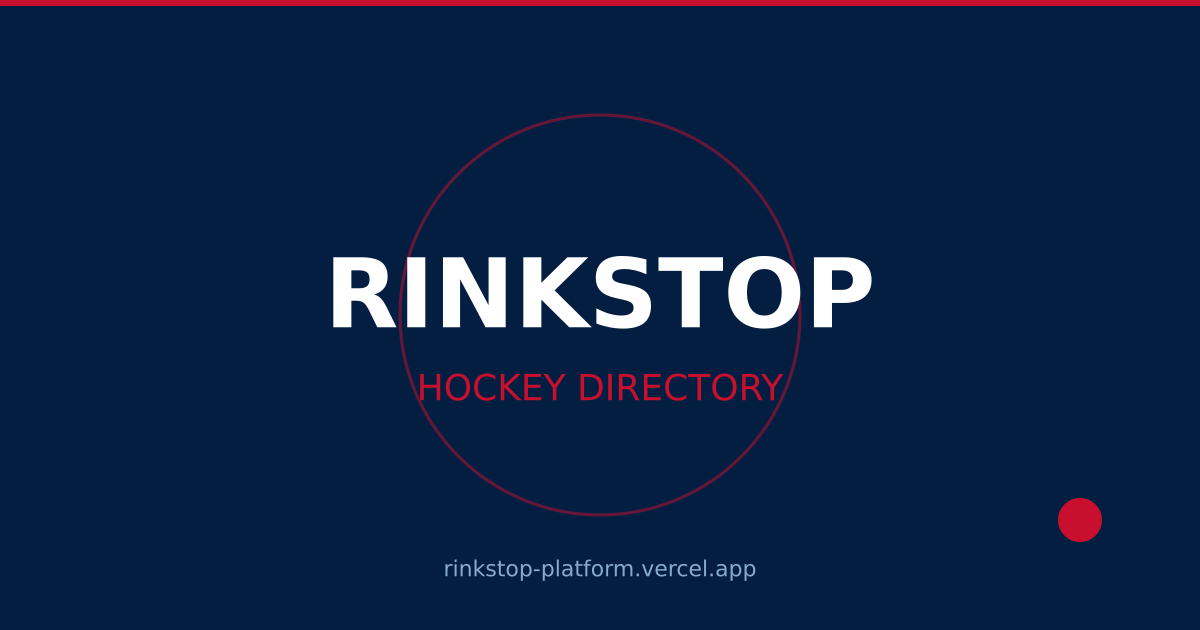
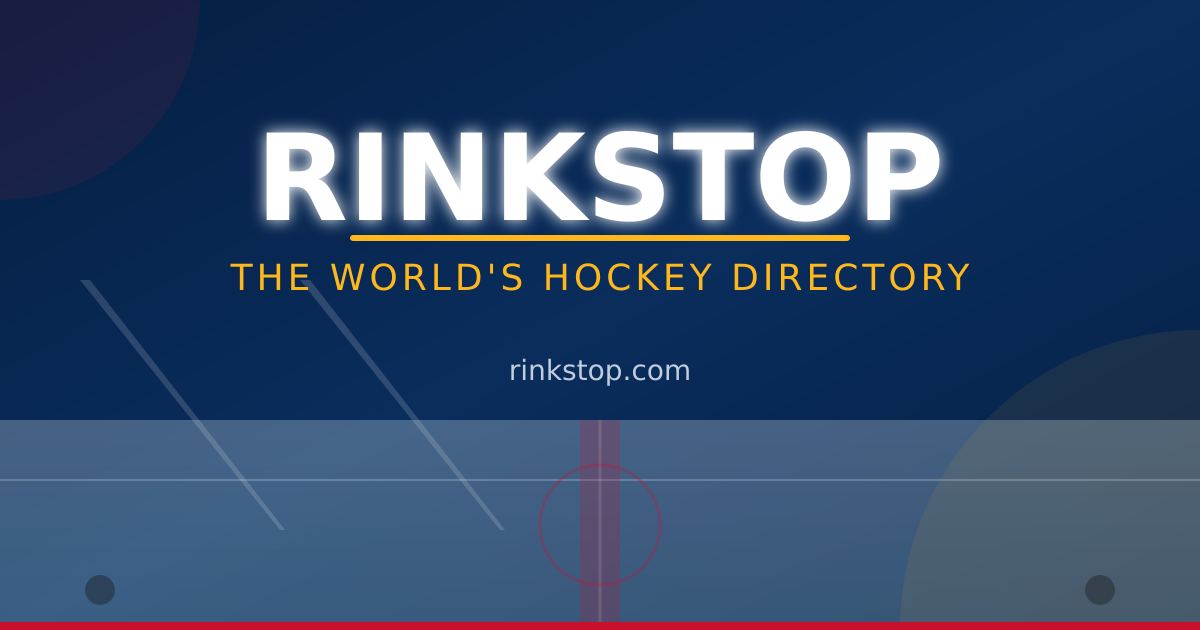
Update OG image with new branded RinkStop design
- New 1200x630 OG image with navy/red/gold branding
- Ice surface texture with hockey rink lines
- Hockey stick decorative elements
- Updated highlights and sitemap improvements

diff --git a/src/app/sitemap.ts b/src/app/sitemap.ts
@@ -4,6 +4,32 @@ import { supabaseAdmin } from '@/lib/supabase';
 const baseUrl = 'https://rinkstop.com';
 
 export default async function sitemap(): Promise<MetadataRoute.Sitemap> {
+  // All 198 countries with their URL slugs
+  const countries = [
+    'united-states', 'canada', 'mexico', 'antigua-and-barbuda', 'bahamas', 'barbados', 'belize', 'costa-rica', 'cuba', 'dominica',
+    'dominican-republic', 'el-salvador', 'grenada', 'guatemala', 'haiti', 'honduras', 'jamaica', 'nicaragua', 'panama',
+    'saint-kitts-and-nevis', 'saint-lucia', 'saint-vincent-and-the-grenadines', 'trinidad-and-tobago',
+    'argentina', 'bolivia', 'brazil', 'chile', 'colombia', 'ecuador', 'guyana', 'paraguay', 'peru', 'suriname', 'uruguay', 'venezuela',
+    'albania', 'andorra', 'austria', 'belarus', 'belgium', 'bosnia-and-herzegovina', 'bulgaria', 'croatia', 'cyprus', 'czech-republic',
+    'denmark', 'estonia', 'finland', 'france', 'georgia', 'germany', 'greece', 'hungary', 'iceland', 'ireland', 'italy', 'kosovo',
+    'latvia', 'liechtenstein', 'lithuania', 'luxembourg', 'malta', 'moldova', 'monaco', 'montenegro', 'netherlands', 'north-macedonia',
+    'norway', 'poland', 'portugal', 'romania', 'russia', 'san-marino', 'serbia', 'slovakia', 'slovenia', 'spain', 'sweden',
+    'switzerland', 'ukraine', 'united-kingdom', 'vatican-city',
+    'afghanistan', 'armenia', 'azerbaijan', 'bahrain', 'bangladesh', 'bhutan', 'brunei', 'cambodia', 'china', 'hong-kong',
+    'india', 'indonesia', 'iran', 'iraq', 'israel', 'japan', 'jordan', 'kazakhstan', 'kuwait', 'kyrgyzstan', 'laos', 'lebanon',
+    'malaysia', 'maldives', 'mongolia', 'myanmar', 'nepal', 'north-korea', 'oman', 'pakistan', 'palestine', 'philippines',
+    'qatar', 'saudi-arabia', 'singapore', 'south-korea', 'sri-lanka', 'syria', 'taiwan', 'tajikistan', 'thailand', 'timor-leste',
+    'turkey', 'turkmenistan', 'united-arab-emirates', 'uzbekistan', 'vietnam', 'yemen',
+    'algeria', 'angola', 'benin', 'botswana', 'burkina-faso', 'burundi', 'cabo-verde', 'cameroon', 'central-african-republic',
+    'chad', 'comoros', 'congo', 'democratic-republic-of-the-congo', 'djibouti', 'egypt', 'equatorial-guinea', 'eritrea',
+    'eswatini', 'ethiopia', 'gabon', 'gambia', 'ghana', 'guinea', 'guinea-bissau', 'ivory-coast', 'kenya', 'lesotho', 'liberia',
+    'libya', 'madagascar', 'malawi', 'mali', 'mauritania', 'mauritius', 'morocco', 'mozambique', 'namibia', 'niger', 'nigeria',
+    'rwanda', 'sao-tome-and-principe', 'senegal', 'seychelles', 'sierra-leone', 'somalia', 'south-africa', 'south-sudan',
+    'sudan', 'tanzania', 'togo', 'tunisia', 'uganda', 'zambia', 'zimbabwe',
+    'australia', 'fiji', 'kiribati', 'marshall-islands', 'micronesia', 'nauru', 'new-zealand', 'palau', 'papua-new-guinea',
+    'samoa', 'solomon-islands', 'tonga', 'tuvalu', 'vanuatu'
+  ];
+
   const staticPages: MetadataRoute.Sitemap = [
     { url: baseUrl, lastModified: new Date(), changeFrequency: 'daily', priority: 1.0 },
     { url: `${baseUrl}/directory`, lastModified: new Date(), changeFrequency: 'daily', priority: 0.9 },
@@ -30,9 +56,16 @@ export default async function sitemap(): Promise<MetadataRoute.Sitemap> {
     { url: `${baseUrl}/gear-brands`, lastModified: new Date(), changeFrequency: 'monthly', priority: 0.5 },
   ];
 
+  const countryUrls: MetadataRoute.Sitemap = countries.map(c => ({
+    url: `${baseUrl}/directory/${c}`,
+    lastModified: new Date(),
+    changeFrequency: 'monthly' as const,
+    priority: 0.6,
+  }));
+
   // Fetch dynamic content from Supabase using admin client
   if (!supabaseAdmin) {
-    return staticPages;
+    return [...staticPages, ...countryUrls];
   }
 
   const [teamsResult, rinksResult, leaguesResult, postsResult, playersResult] = await Promise.all([
@@ -78,5 +111,5 @@ export default async function sitemap(): Promise<MetadataRoute.Sitemap> {
     priority: 0.6,
   }));
 
-  return [...staticPages, ...teamUrls, ...rinkUrls, ...leagueUrls, ...postUrls, ...playerUrls];
+  return [...staticPages, ...countryUrls, ...teamUrls, ...rinkUrls, ...leagueUrls, ...postUrls, ...playerUrls];
 }

diff --git a/src/app/highlights/page.tsx b/src/app/highlights/page.tsx
@@ -35,6 +35,7 @@ function HighlightsContent() {
   const [loadingMore, setLoadingMore] = useState(false);
   const [selectedHighlight, setSelectedHighlight] = useState<Highlight | null>(null);
   const [activeLeague, setActiveLeague] = useState<string>('');
+  const [youtubeOnly, setYoutubeOnly] = useState(true);
   const searchParams = useSearchParams();
 
   // Read league from URL on mount
@@ -49,7 +50,7 @@ function HighlightsContent() {
     try {
       let url = `/api/highlights?limit=12&offset=${offsetVal}`;
       // Only apply youtubeOnly filter for NHL and All (NCAA has no YouTube content)
-      if (youtubeOnly || league === 'NHL' || !league) url += '&youtubeOnly=true';
+      if (youtubeOnly) url += '&youtubeOnly=true';
       if (league) url += `&leagueName=${encodeURIComponent(league)}`;
       
       const res = await fetch(url);
@@ -62,10 +63,6 @@ function HighlightsContent() {
         filtered = data.highlights;
       }
       
-      const res = await fetch(url);
-      if (!res.ok) throw new Error('Failed to fetch');
-      const data = await res.json();
-      const filtered = (data.highlights || []).filter((h: Highlight) => h.source === 'youtube' || !!h.embedUrl);
       setHighlights(filtered);
       setOffset(offsetVal);
       setHasMore((data.pagination?.totalCount || 0) > filtered.length);
